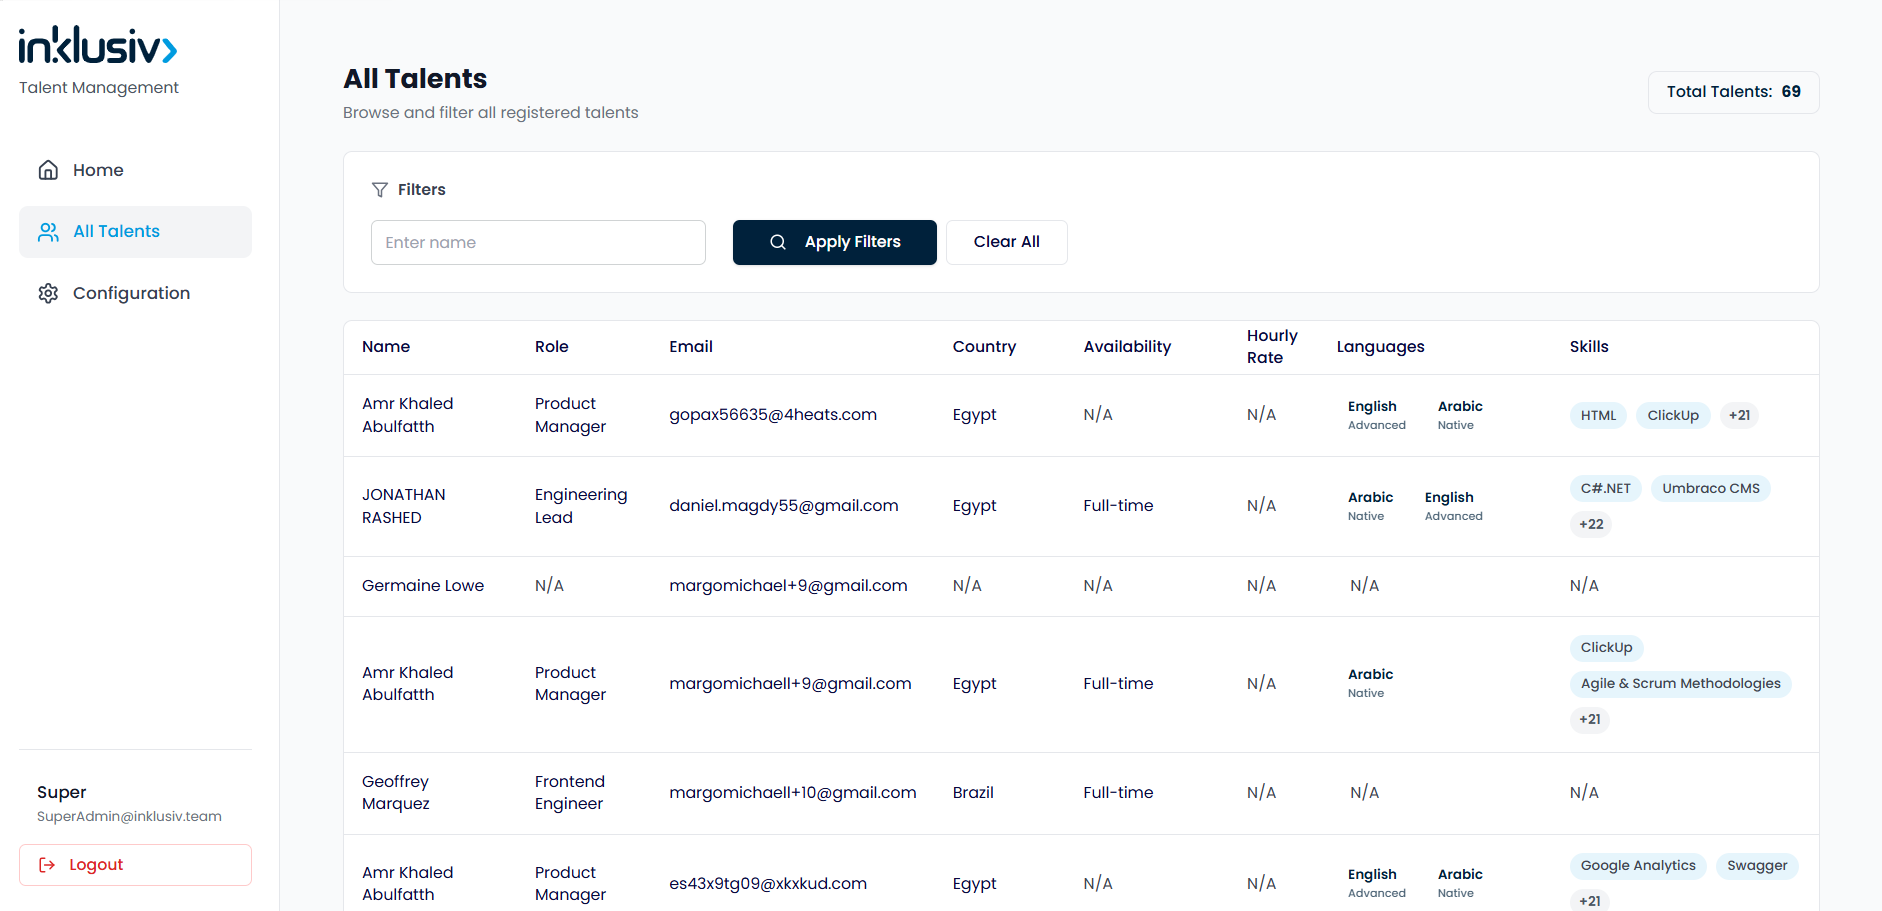
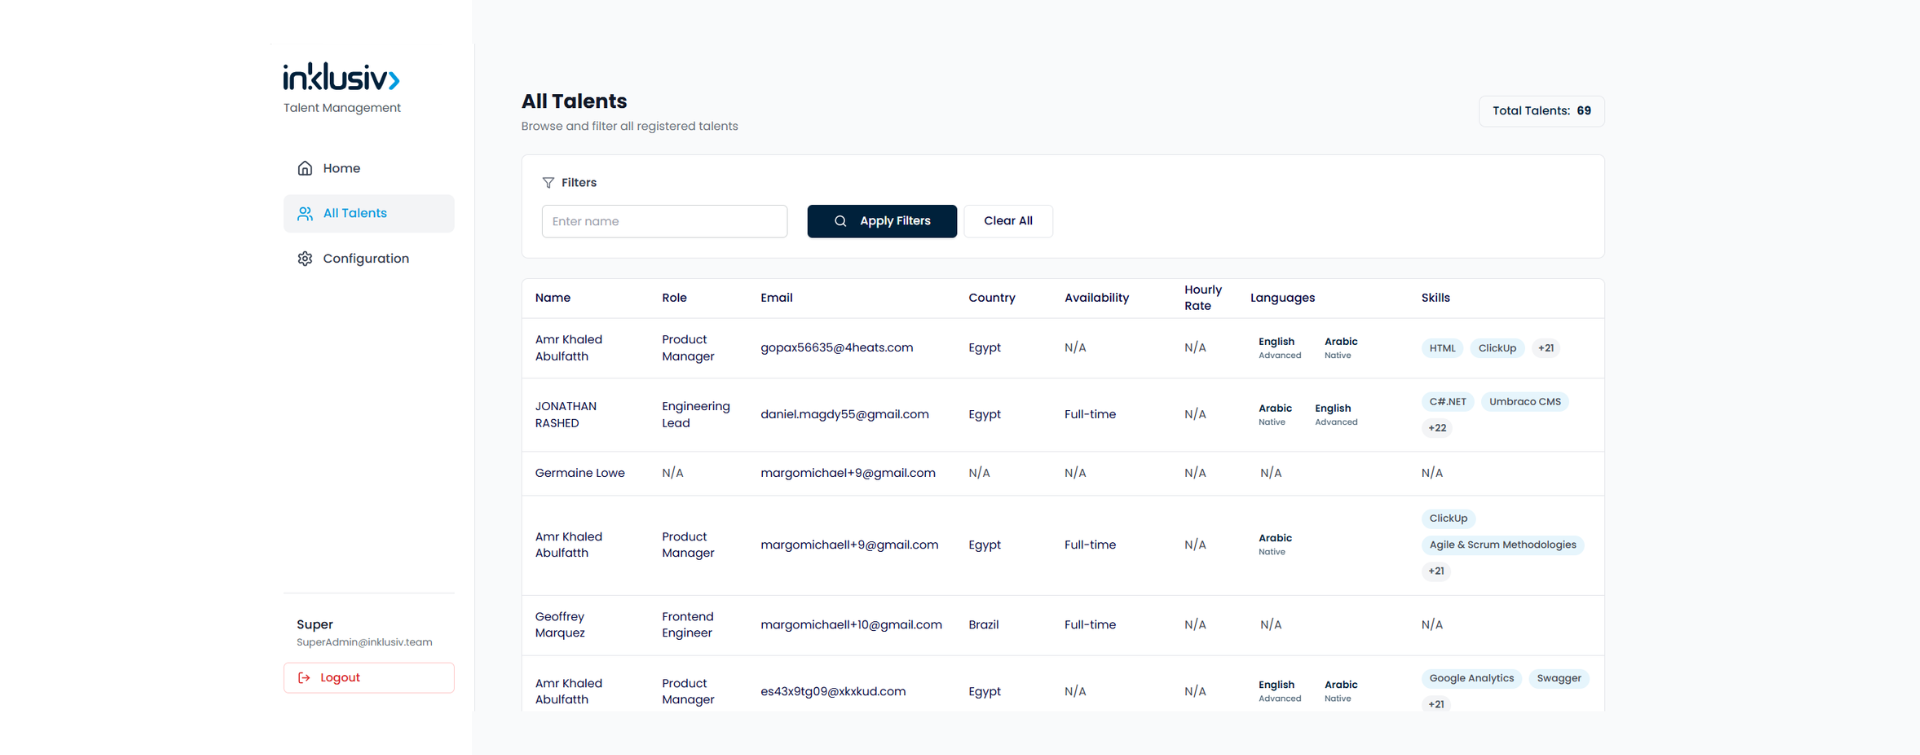
feat: update project details and replace outdated images

diff --git a/src/features/profile/data/projects.ts b/src/features/profile/data/projects.ts
@@ -34,9 +34,20 @@ export const PROJECTS: Project[] = [
     code: "https://github.com/Margo-Mikhael/task-manager.git",
     skills: ["React", "React-dnd", "Sass"],
   },
+    {
+    id: "ecommerce-freshcart",
+    title: "E-Commerce Website",
+    category: "React.js",
+    image: "/images/projects/Ecommerce.png",
+    description:
+      "React e-commerce app with product listings, cart, and auth. Styled with Tailwind.",
+    demo: "https://github.com/Margo-Mikhael/ecommerce-freshcart",
+    code: "https://github.com/Margo-Mikhael/ecommerce-freshcart",
+    skills: ["React", "Axios", "Tailwind"],
+  },
   {
     id: "blog-post",
-    title: "Blog Post",
+    title: "Fullstack Blog Post",
     category: "Fullstack",
     image: "/images/projects/BlogPost.png",
     description:
@@ -44,17 +55,6 @@ export const PROJECTS: Project[] = [
     demo: "https://github.com/Margo-Mikhael/NodeJs-BlogApp",
     code: "https://github.com/Margo-Mikhael/NodeJs-BlogApp",
     skills: ["Node.js", "Express", "MongoDB"],
-  },
-  {
-    id: "ecommerce-freshcart",
-    title: "E-Commerce Website",
-    category: "React.js",
-    image: "/images/projects/Ecommercfe.png",
-    description:
-      "React e-commerce app with product listings, cart, and auth. Styled with Tailwind.",
-    demo: "https://github.com/Margo-Mikhael/ecommerce-freshcart",
-    code: "https://github.com/Margo-Mikhael/ecommerce-freshcart",
-    skills: ["React", "Axios", "Tailwind"],
   },
   {
     id: "portfolio",
